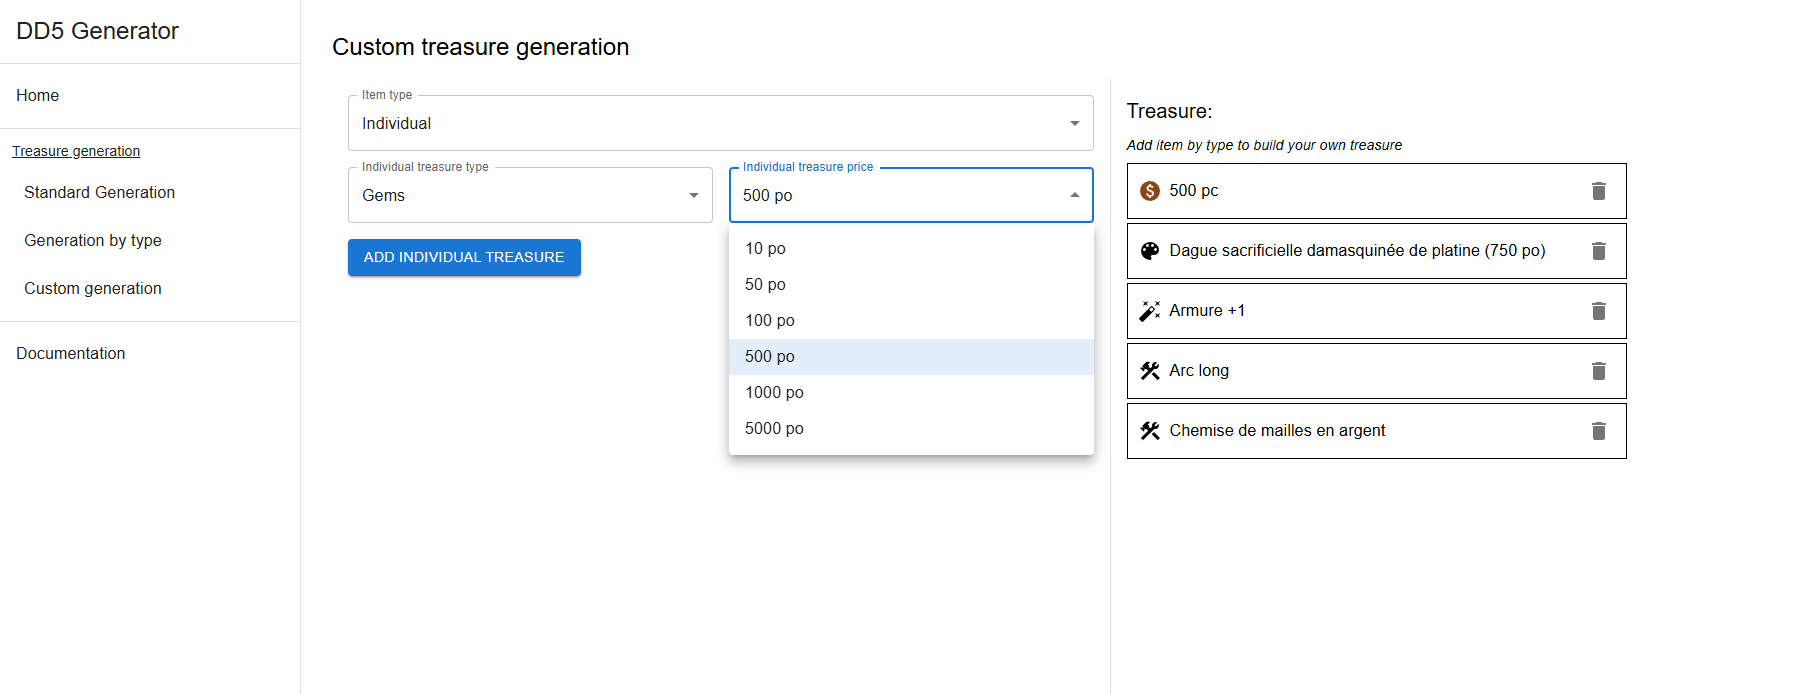
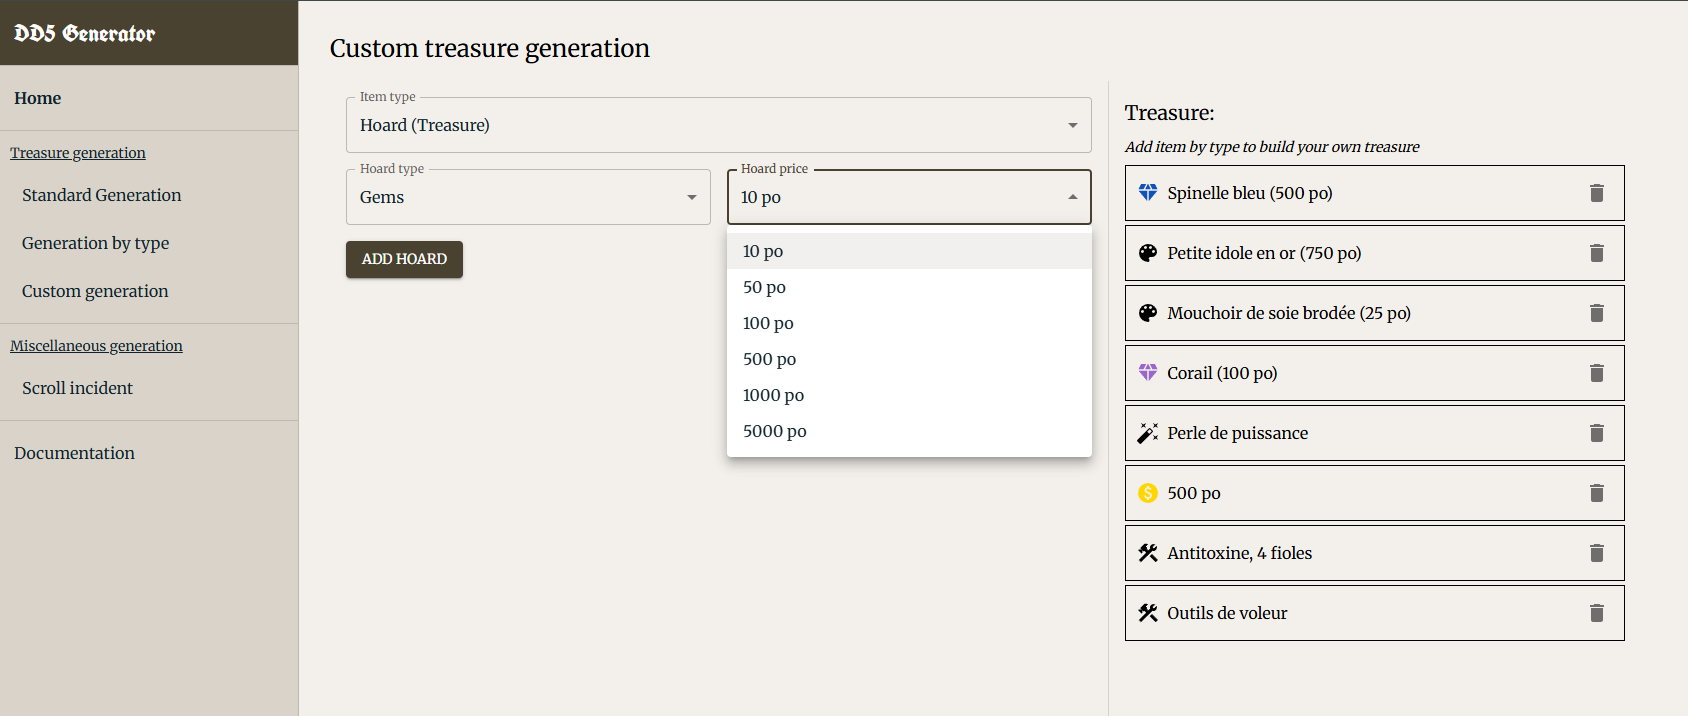
add new style

diff --git a/dd5-generator-front/src/components/navigation/SideMenu.tsx b/dd5-generator-front/src/components/navigation/SideMenu.tsx
@@ -6,18 +6,28 @@ import {
   ListItemText,
   Typography,
 } from '@mui/material';
-import { useMemo } from 'react';
-import { useNavigate } from 'react-router-dom';
+import { useCallback, useMemo } from 'react';
+import { useLocation, useNavigate } from 'react-router-dom';
 import { ESize } from '../../styles/size.enum';
+import {
+  PRIMARY_COLOR,
+  SECONDARY_BACKGROUND,
+  SECONDARY_COLOR,
+  SECONDARY_COLOR_LIGHT,
+} from '../../styles/theme';
 
 export default function SideMenu() {
   const navigate = useNavigate();
+  const location = useLocation();
+  const currentPath = location.pathname;
 
-  const listItemStyle = useMemo(
-    () => ({
+  const listItemStyle = useCallback(
+    (selected: boolean, isSecondary = false) => ({
       cursor: 'pointer',
+      paddingLeft: isSecondary ? ESize.md : ESize.xs,
+      backgroundColor: selected ? SECONDARY_COLOR : 'transparent',
       '&:hover': {
-        backgroundColor: '#f0f0f0',
+        backgroundColor: SECONDARY_COLOR_LIGHT,
       },
     }),
     []
@@ -33,16 +43,29 @@ export default function SideMenu() {
         flexDirection: 'column',
         '& .MuiDrawer-paper': {
           width: '300px',
+          bgcolor: SECONDARY_BACKGROUND,
         },
       }}
     >
-      <Typography variant="h5" padding={ESize.base}>
+      <Typography
+        variant="h5"
+        padding={ESize.base}
+        fontWeight={'bold'}
+        bgcolor={PRIMARY_COLOR}
+        color="white"
+        sx={{ fontFamily: '"UnifrakturCook", serif' }}
+      >
         DD5 Generator
       </Typography>
       <Divider />
       <List>
-        <ListItem sx={listItemStyle} onClick={() => navigate('/')}>
-          <ListItemText>Home</ListItemText>
+        <ListItem
+          sx={listItemStyle(currentPath === '/')}
+          onClick={() => navigate('/')}
+        >
+          <ListItemText>
+            <Typography fontWeight={'bold'}>Home</Typography>
+          </ListItemText>
         </ListItem>
       </List>
       <Divider />
@@ -55,21 +78,27 @@ export default function SideMenu() {
         Treasure generation
       </Typography>
 
-      <List sx={{ paddingLeft: ESize.xs }}>
+      <List>
         <ListItem
-          sx={listItemStyle}
+          sx={listItemStyle(currentPath === '/treasure-generation', true)}
           onClick={() => navigate('/treasure-generation')}
         >
           <ListItemText>Standard Generation</ListItemText>
         </ListItem>
         <ListItem
-          sx={listItemStyle}
+          sx={listItemStyle(
+            currentPath === '/treasure-generation/by-type/coin',
+            true
+          )}
           onClick={() => navigate('/treasure-generation/by-type/coin')}
         >
           <ListItemText>Generation by type</ListItemText>
         </ListItem>
         <ListItem
-          sx={listItemStyle}
+          sx={listItemStyle(
+            currentPath === '/treasure-generation/custom',
+            true
+          )}
           onClick={() => navigate('/treasure-generation/custom')}
         >
           <ListItemText>Custom generation</ListItemText>
@@ -85,9 +114,9 @@ export default function SideMenu() {
         Miscellaneous generation
       </Typography>
 
-      <List sx={{ paddingLeft: ESize.xs }}>
+      <List>
         <ListItem
-          sx={listItemStyle}
+          sx={listItemStyle(currentPath === '/scroll-incident', true)}
           onClick={() => navigate('/scroll-incident')}
         >
           <ListItemText>Scroll incident</ListItemText>
@@ -95,7 +124,10 @@ export default function SideMenu() {
       </List>
       <Divider />
       <List>
-        <ListItem sx={listItemStyle} onClick={() => navigate('/docs')}>
+        <ListItem
+          sx={listItemStyle(currentPath === '/docs')}
+          onClick={() => navigate('/docs')}
+        >
           <ListItemText>Documentation</ListItemText>
         </ListItem>
       </List>

diff --git a/dd5-generator-front/src/styles/theme.ts b/dd5-generator-front/src/styles/theme.ts
@@ -1,0 +1,39 @@
+import { createTheme } from '@mui/material';
+
+export const PRIMARY_COLOR = '#494230';
+export const SECONDARY_COLOR = '#bbbfc2ff';
+export const SECONDARY_COLOR_LIGHT = '#bbbfc27e';
+export const BACKGROUND = '#f3f0ebff';
+export const SECONDARY_BACKGROUND = '#dad3caff';
+
+export const MAIN_THEME = createTheme({
+  typography: {
+    fontFamily: '"Merriweather", "Arial", sans-serif', // serif font first, fallback to sans-serif
+  },
+  palette: {
+    primary: {
+      main: PRIMARY_COLOR,
+    },
+    secondary: {
+      main: SECONDARY_COLOR,
+    },
+    error: {
+      main: '#d32f2f',
+    },
+    warning: {
+      main: '#ed6c02',
+    },
+    info: {
+      main: '#0288d1',
+    },
+    success: {
+      main: '#2e7d32',
+    },
+    background: {
+      default: BACKGROUND,
+    },
+    text: {
+      primary: '#10232b',
+    },
+  },
+});

diff --git a/dd5-generator-front/public/index.html b/dd5-generator-front/public/index.html
@@ -1,4 +1,4 @@
-<!DOCTYPE html>
+<!doctype html>
 <html lang="en">
   <head>
     <meta charset="utf-8" />
@@ -15,6 +15,17 @@
       user's mobile device or desktop. See https://developers.google.com/web/fundamentals/web-app-manifest/
     -->
     <link rel="manifest" href="%PUBLIC_URL%/manifest.json" />
+    <link rel="preconnect" href="https://fonts.googleapis.com" />
+    <link rel="preconnect" href="https://fonts.gstatic.com" crossorigin />
+    <link
+      href="https://fonts.googleapis.com/css2?family=Merriweather:wght@400;700&display=swap"
+      rel="stylesheet"
+    />
+    <link
+      href="https://fonts.googleapis.com/css2?family=UnifrakturCook:wght@700&display=swap"
+      rel="stylesheet"
+    />
+
     <!--
       Notice the use of %PUBLIC_URL% in the tags above.
       It will be replaced with the URL of the `public` folder during the build.

diff --git a/dd5-generator-front/src/components/treasure-generation/TreasureGenerationComponent.tsx b/dd5-generator-front/src/components/treasure-generation/TreasureGenerationComponent.tsx
@@ -65,7 +65,7 @@ export default function TreasureGenerationComponent(props: {
   return (
     <FlexBox takeRemainingSpace>
       <Typography variant="h5">{props.title}</Typography>
-      <FlexBox gap={0} padding={0}>
+      <FlexBox gap={1} padding={0}>
         <Typography variant="body2" fontStyle={'italic'}>
           No encounter level given mean random level between 0 and 20
         </Typography>
@@ -109,7 +109,7 @@ export default function TreasureGenerationComponent(props: {
                 }}
               />
             }
-            label="Add hoard bonus"
+            label="Add hoard bonus (Coin)"
           />
         )}
       </FlexBox>

diff --git a/dd5-generator-front/src/pages/TreasureGenByTypePage.tsx b/dd5-generator-front/src/pages/TreasureGenByTypePage.tsx
@@ -29,10 +29,10 @@ export default function TreasureGenByTypePage() {
           navigate(tabPaths[newValue]);
         }}
       >
-        <Tab label="Coin" />
-        <Tab label="Rare object" />
-        <Tab label="Hoard" />
-        <Tab label="Magic object" />
+        <Tab label="Coin" sx={{ fontWeight: 'bold' }} />
+        <Tab label="Rare object" sx={{ fontWeight: 'bold' }} />
+        <Tab label="Hoard" sx={{ fontWeight: 'bold' }} />
+        <Tab label="Magic object" sx={{ fontWeight: 'bold' }} />
       </Tabs>
       <FlexBox padding={0} gap={0} takeRemainingSpace>
         <Outlet />

diff --git a/dd5-generator-front/src/index.tsx b/dd5-generator-front/src/index.tsx
@@ -4,14 +4,19 @@ import './index.css';
 import App from './App';
 import reportWebVitals from './reportWebVitals';
 import { BrowserRouter } from 'react-router-dom';
+import { ThemeProvider } from '@mui/material';
+import { MAIN_THEME } from './styles/theme';
 
 const root = ReactDOM.createRoot(
   document.getElementById('root') as HTMLElement
 );
+
 root.render(
   <React.StrictMode>
     <BrowserRouter>
-      <App />
+      <ThemeProvider theme={MAIN_THEME}>
+        <App />
+      </ThemeProvider>
     </BrowserRouter>
   </React.StrictMode>
 );

diff --git a/dd5-generator-front/src/components/base-components/FlexBox.tsx b/dd5-generator-front/src/components/base-components/FlexBox.tsx
@@ -1,6 +1,7 @@
 import { Box, BoxProps } from '@mui/material';
 import { ESize } from '../../styles/size.enum';
 import { useMemo } from 'react';
+import { BACKGROUND } from '../../styles/theme';
 
 export default function FlexBox(
   props: BoxProps & { takeRemainingSpace?: boolean }
@@ -19,6 +20,7 @@ export default function FlexBox(
 
   return (
     <Box
+      sx={{ bgcolor: BACKGROUND }}
       display={'flex'}
       gap={gap ?? ESize.base}
       padding={padding ?? ESize.base}

diff --git a/dd5-generator-front/src/pages/CustomTreasureGenPage.tsx b/dd5-generator-front/src/pages/CustomTreasureGenPage.tsx
@@ -80,7 +80,7 @@ export default function CustomTreasureGenPage() {
             selectValues={[
               { label: 'Coin', value: ETreasureType.COIN },
               { label: 'Rare object', value: ETreasureType.RARE_OBJECT },
-              { label: 'Hoard', value: ETreasureType.HOARD },
+              { label: 'Hoard (Treasure)', value: ETreasureType.HOARD },
               { label: 'Magic object', value: ETreasureType.MAGIC_OBJECT },
             ]}
           />

diff --git a/dd5-generator-front/src/pages/HomePage.tsx b/dd5-generator-front/src/pages/HomePage.tsx
@@ -13,6 +13,11 @@ export function HomePage() {
         This application is a treasure generation tool for Dungeon and Dragon
         5th edition.
       </Typography>
+      <Typography>
+        Treasure generation is based on the following website:
+        https://5e-drs.fr/les-tresors/ and on the Dungeon master's Guide (FR
+        version)
+      </Typography>
     </FlexBox>
   );
 }

diff --git a/dd5-generator-front/src/routing/TreasureGenRouter.tsx b/dd5-generator-front/src/routing/TreasureGenRouter.tsx
@@ -34,7 +34,7 @@ export default function TreasureGenRouter() {
           path="hoard"
           element={
             <TreasureGenerationComponent
-              title={'Hoard generation'}
+              title={'Hoard generation (Treasure)'}
               buttonLabel="Generate hoard"
               backendPath="hoard"
             />
